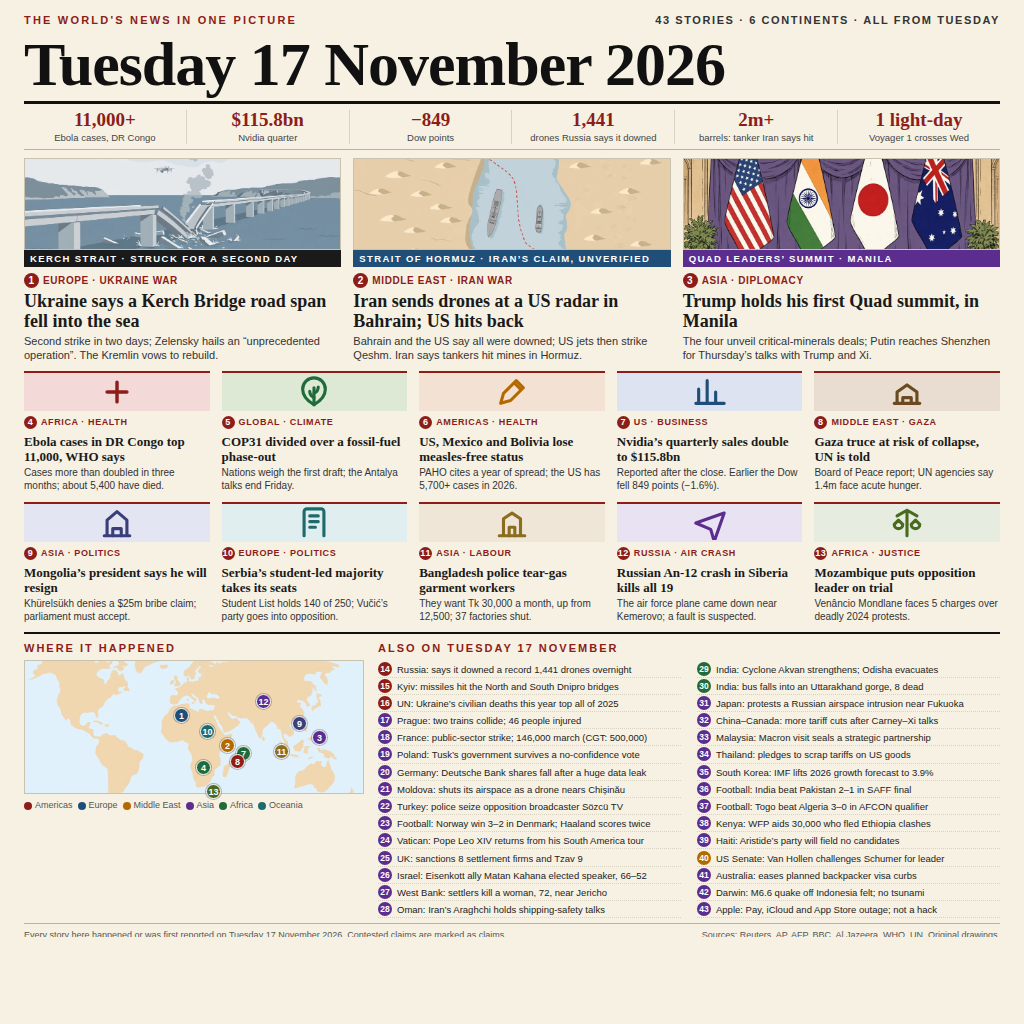
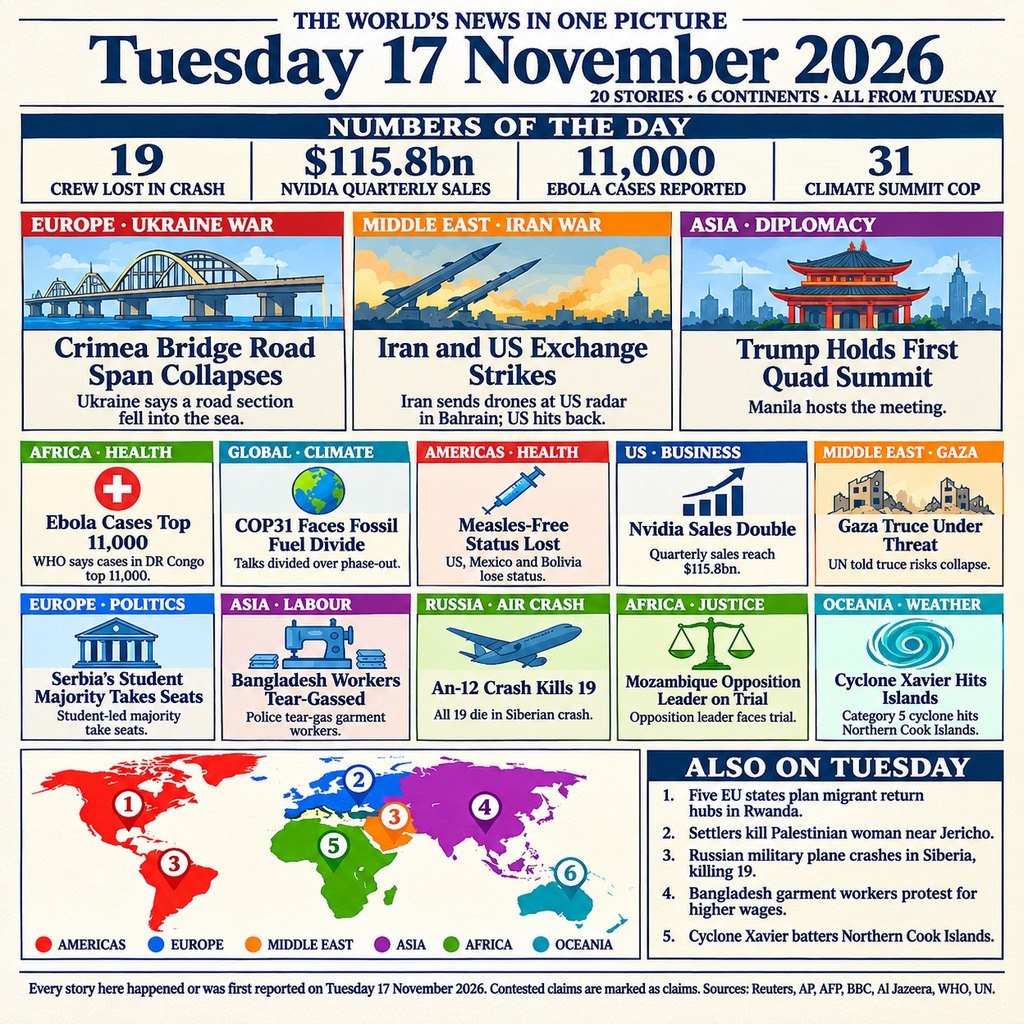
Replace entry image with user's front page (20 stories)

diff --git a/README.md b/README.md
@@ -6,13 +6,18 @@
 
 This entry sums up Tuesday 17 November 2026's world news in a single image:
 a one-page newspaper front page, headlined with the day's date, that a reader
-can take in at a glance and then keep reading.
+can take in at a glance and then keep reading. Its strapline reads
+"20 STORIES · 6 CONTINENTS · ALL FROM TUESDAY".
 
-The front page carries 43 stories from 6 continents. Three illustrated lead
-stories anchor it: the Kerch Bridge, the Strait of Hormuz, and the Quad
-summit in Manila. A stats strip runs across the page, a world map with pins
-shows where the day's news happened, and a numbered "Also on Tuesday" list
-rounds up the day's remaining stories, so the whole day fits on the page.
+A "NUMBERS OF THE DAY" strip runs across the page — 19 crew lost in a crash,
+$115.8bn in Nvidia quarterly sales, 11,000 Ebola cases, and climate summit
+COP 31. Three illustrated lead stories anchor the page: a Crimea Bridge road
+span collapses, Iran and the US exchange strikes, and Trump holds the first
+Quad Summit. Below them, ten more stories fill two rows of five, and a world
+map with six numbered pins — Americas, Europe, Middle East, Asia, Africa,
+Oceania — comes with a legend so every pin can be placed at a glance. An
+"ALSO ON TUESDAY" list of five more stories closes the page, so the whole
+day fits on it.
 
 ## How it works
 
@@ -26,8 +31,8 @@ Run it with Node 22, no network needed:
 node main.ts
 ```
 
-Set `OUT_DIR` to write somewhere other than `/output` (for example,
-`OUT_DIR=out node main.ts` for a local check). The program is deterministic:
+Set `MAKEFUN_OUTPUT_DIR` to write somewhere other than `/output` (for example,
+`MAKEFUN_OUTPUT_DIR=out node main.ts` for a local check). The program is deterministic:
 the same input bytes always produce the same output bytes.
 
 ## License
